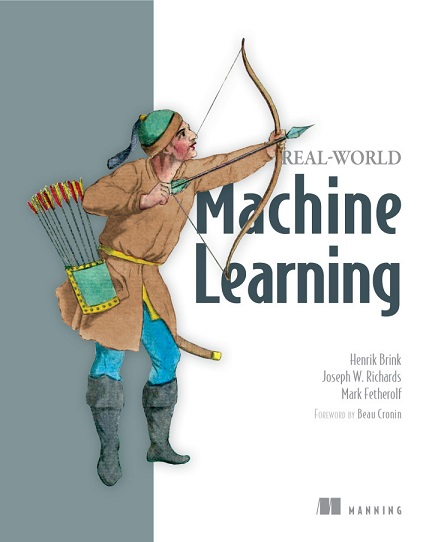
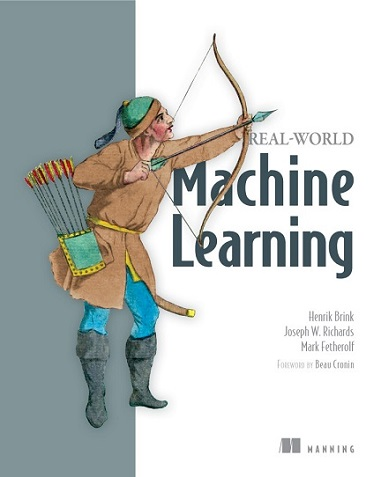
Daily Dose for 2017.10.16

Changed region(s): [[0.2021, 0.4696, 0.231, 0.499], [0.0866, 0.3522, 0.1155, 0.3816]]

diff --git a/_layouts/blog.html b/_layouts/blog.html
@@ -2,8 +2,8 @@
 layout: base
 ---
 {% comment %}
-<h1 class="post-title"><a href="/daily/2017/10/15/" data-flip="title">Daily Dose for 2017.10.15</a></h1>
-<p>, <a href="/daily/2017/10/15/">and more>>></a>.</p><br/>
+<h1 class="post-title"><a href="/daily/2017/10/16/" data-flip="title">Daily Dose for 2017.10.16</a></h1>
+<p>, <a href="/daily/2017/10/16/">and more>>></a>.</p><br/>
 {% endcomment %}
 
 <ul>
@@ -12,6 +12,15 @@ layout: base
   <li><strong>Books/Videos:</strong>&nbsp;New book announcements or full book/video reviews.</li>
 </ul>
 
+<h1 class="post-title"><a href="/daily/2017/10/16/" data-flip="title">Daily Dose for 2017.10.16</a></h1>
+<div class="image-box"><a href="{{site.url}}/daily/2017/10/16/#packt-daily"><img class="resize" alt="Xamarin Blueprints" src="/assets/img/learning/packt/xamarin-blueprints.jpg"/></a></div>
+<div class="image-box"><a href="{{site.url}}/daily/2017/10/16/#apress-daily"><img class="resize" alt="Pivotal Certified Professional Spring Developer Exam" src="/assets/img/learning/apress/pivotal-certified-professional-spring-developer-exam.png"/></a></div>
+<div class="image-box"><a href="{{site.url}}/daily/2017/10/16/#manning-daily-1"><img class="resize" alt="Natural Language Processing in Action" src="/assets/img/learning/manning/natural-language-processing-in-action.png"/></a></div>
+<div class="image-box"><a href="{{site.url}}/daily/2017/10/16/#manning-daily-2"><img class="resize" alt="Reactive Machine Learning Systems" src="/assets/img/learning/manning/reactive-machine-learning-systems.png"/></a></div>
+<div class="image-box"><a href="{{site.url}}/daily/2017/10/16/#manning-daily-3"><img class="resize" alt="Real-World Machine Learning" src="/assets/img/learning/manning/real-world-machine-learning.png"/></a></div>
+
+<p>Akka, Android Development, Bayesian Modeling, Big Data, Chatbot, Convolutional Neural Networks, Functional Programming, iOS Development, Java, Long Short-Term Memory Networks, Machine Learning, Microservices, MLlib, Mobile Development, Naive Bayes, Natural Language Processing, Neural Networks, Pivotal Certified Professional, Python, Reactive Design, Recurrent Neural Networks, Scala, Spark, Spring Framework, TF-IDF, Word2vec, Xamarin, <a href="/daily/2017/10/16/">and more>>></a>.</p><br/>
+
 <h1 class="post-title"><a href="/daily/2017/10/15/" data-flip="title">Daily Dose for 2017.10.15</a></h1>
 <div class="image-box"><a href="{{site.url}}/daily/2017/10/15/#packt-daily"><img class="resize" alt="Smart Internet of Things Projects" src="/assets/img/learning/packt/smart-internet-of-things-projects.jpg"/></a></div>
 <div class="image-box"><a href="{{site.url}}/daily/2017/10/15/#apress-daily"><img class="resize" alt="Deploying Raspberry Pi in the Classroom" src="/assets/img/learning/apress/deploying-raspberry-pi-in-the-classroom.png"/></a></div>
@@ -19,7 +28,6 @@ layout: base
 <div class="image-box"><a href="{{site.url}}/daily/2017/10/15/#manning-daily-1"><img class="resize" alt="Streaming Data" src="/assets/img/learning/manning/streaming-data-final.png"/></a></div>
 <div class="image-box"><a href="{{site.url}}/daily/2017/10/15/#manning-daily-2"><img class="resize" alt="Spark in Action" src="/assets/img/learning/manning/spark-in-action.png"/></a></div>
 <div class="image-box"><a href="{{site.url}}/daily/2017/10/15/#manning-daily-3"><img class="resize" alt="Storm Applied" src="/assets/img/learning/manning/storm-applied.png"/></a></div>
-
 <p>Apache Flink, Apache Kafka, Apache Samza, Apache Spark 2.0, Apache Storm, Arduino, Bayesian, Big Data, Caret, dplyr, Fuzzy Logic, ggplot2, Internet of Things, knitr, LaTeX, Microsoft Azure IoT, OpenCV, purrr, Python, R 3.4.0, Raspberry Pi, RMarkdown, RStudio, Shiny, Streaming Data, Tidyverse, Trident, <a href="/daily/2017/10/15/">and more>>></a>.</p><br/>
 
 <h1 class="post-title"><a href="/daily/2017/10/14/" data-flip="title">Daily Dose for 2017.10.14</a></h1>
@@ -39,12 +47,6 @@ layout: base
 <p>Angular 2, ES2015, Express, Express 4, Express 5 Alpha, MEAN, MongoDB, MongoDB 3, Mongoose, Node, Node.js 6, Pug, Raspberry Pi, REST API, <a href="/daily/2017/10/13/">and more>>></a>.</p><br/>
 
 <h1 class="post-title"><a href="/daily/2017/10/12/" data-flip="title">Daily Dose for 2017.10.12</a></h1>
-<div class="image-box"><a href="{{site.url}}/daily/2017/10/12/#packt-daily"><img class="resize" alt="Learning Penetration Testing with Python" src="/assets/img/learning/packt/learning-penetration-testing-with-python.png"/></a></div>
-<div class="image-box"><a href="{{site.url}}/daily/2017/10/12/#apress-daily"><img class="resize" alt="Rapid Game Development Using Cocos2d-JS" src="/assets/img/learning/apress/rapid-game-development-using-cocos2d-js.png"/></a></div>
-<div class="image-box"><a href="{{site.url}}/daily/2017/10/12/#manning-daily-1"><img class="resize" alt="Progressive Web Apps" src="/assets/img/learning/manning/progressive-web-apps-meap.png"/></a></div>
-<div class="image-box"><a href="{{site.url}}/daily/2017/10/12/#manning-daily-2"><img class="resize" alt="Web Performance in Action" src="/assets/img/learning/manning/web-performance-in-action-final.png"/></a></div>
-<div class="image-box"><a href="{{site.url}}/daily/2017/10/12/#manning-daily-3"><img class="resize" alt="Front-End Tooling with Gulp, Bower, and Yeoman" src="/assets/img/learning/manning/front-end-tooling-with-gulp-bower-and-yeoman-med.png"/></a></div>
-<div class="image-box"><a href="{{site.url}}/daily/2017/10/12/#pluralfree"><img class="resize" alt="Android Fundamentals: Content Providers" src="/assets/img/learning/pluralsight/android-fundamentals-content-providers.png"/></a></div>
 <p>Android, Bower, Burp Suite, Chipmunk, Cocos2d-JS, ContentProvider, CSS, Game Development, Gulp, HTTP/2, JavaScript, Metasploit, Nmap, Node.js, Penetration Testing, Progressive Web Apps, Python, Scapy, SQLite, Web Performance, Yeoman, <a href="/daily/2017/10/12/">and more>>></a>.</p><br/>
 
 <h1 class="post-title"><a href="/daily/2017/10/11/" data-flip="title">Daily Dose for 2017.10.11</a></h1>

diff --git a/_layouts/list.html b/_layouts/list.html
@@ -2,8 +2,8 @@
 layout: base
 
 daily_dose: 
-    day: 15 Oct
-    path: /daily/2017/10/15/
+    day: 16 Oct
+    path: /daily/2017/10/16/
 
 ---
 

diff --git a/daily/2017/10/16/index.md b/daily/2017/10/16/index.md
@@ -1,0 +1,190 @@
+---
+layout: daily
+title:  'Daily Dose for 2017.10.16'
+date:   2017-10-16 00:00:00 -0400
+excerpt_separator: <!--more-->
+comments: true
+navigation: '<< [Daily Dose for 2017.10.15](/daily/2017/10/15/) &#124; [Oct 2017](/daily/2017/10/) &#124; [2017](/daily/2017/) &#124; Daily Dose for 2017.10.17 >>'
+published: true
+---
+{% comment %}
+* [Select New Books and Courses](#select)
+* [New/Updated Pluralsight Courses](#pluralsight-new)
+{% endcomment %}
+
+<div class="image-box"><a href="{{site.url}}/daily/2017/10/16/#packt-daily"><img class="resize" alt="Xamarin Blueprints" src="/assets/img/learning/packt/xamarin-blueprints.jpg"/></a></div>
+<div class="image-box"><a href="{{site.url}}/daily/2017/10/16/#apress-daily"><img class="resize" alt="Pivotal Certified Professional Spring Developer Exam" src="/assets/img/learning/apress/pivotal-certified-professional-spring-developer-exam.png"/></a></div>
+<div class="image-box"><a href="{{site.url}}/daily/2017/10/16/#manning-daily-1"><img class="resize" alt="Natural Language Processing in Action" src="/assets/img/learning/manning/natural-language-processing-in-action.png"/></a></div>
+<div class="image-box"><a href="{{site.url}}/daily/2017/10/16/#manning-daily-2"><img class="resize" alt="Reactive Machine Learning Systems" src="/assets/img/learning/manning/reactive-machine-learning-systems.png"/></a></div>
+<div class="image-box"><a href="{{site.url}}/daily/2017/10/16/#manning-daily-3"><img class="resize" alt="Real-World Machine Learning" src="/assets/img/learning/manning/real-world-machine-learning.png"/></a></div>
+
+## Sections
+* [Books/Videos on Sale (or Free) Today](#sale)
+* [New/Updated Safari Books and Courses](#safari-new)
+
+## <a name="sale"></a>Books/Videos on Sale (or Free) Today ##
+These deals are good for today only, so be sure to take advantage of the pricing before the offers expire.
+
+### <a name="packt-daily"></a><small>Free</small> [Xamarin Blueprints](https://www.packtpub.com/packt/offers/free-learning) 
+[![Xamarin Blueprints](/assets/img/learning/packt/xamarin-blueprints.jpg)](https://www.packtpub.com/packt/offers/free-learning)
+[Free Packt eBook](https://www.packtpub.com/packt/offers/free-learning) by Michael Williams (valid through 10/16 at 19:00 EST). This book covers Xamarin, Mobile Development, iOS Development, Android Development.
+
+#### Publisher's Description
+Do you want to create powerful, efficient, and independent apps from scratch that will leverage the Xamarin framework and code with C#? Well, look no further; you've come to the right place!
+
+This is a learn-as-you-build practical guide to building eight full-fledged applications using Xamarin.Forms, Xamarin Android, and Xamarin iOS.
+
+Each chapter includes a project, takes you through the process of building applications (such as a gallery Application, a text-to-speech service app, a GPS locator app, and a stock market app), and will show you how to deploy the application's source code to a Google Cloud Source Repository. Other practical projects include a chat and a media-editing app, as well as other examples fit to adorn any developer's utility belt.
+
+In the course of building applications, this book will teach you how to design and prototype professional-grade applications implementing performance and security considerations.
+
+#### What You Will Learn
+* Discover eight different ways to create your own Xamarin applications
+* Improve app performance by using SQLite for data-intensive applications
+* Set up a simple web service to feed JSON data into mobile applications
+* Store files locally with Xamarin.Forms using dependency services
+* Use Xamarin extension libraries to create effective applications with less coding
+
+#### About the Author
+**Michael Williams** is an Insightful, results-driven full stack developer with notable experience in cross-platform development using Xamarin and native languages for multiple platforms. He also builds and researches server-side architecture using CQRS and event-sourcing. 
+
+Also an entrepreneur, the owner of Flush Arcade, a company involved in developing creative, innovative, and ideative games ([flusharcade.com.au](http://flusharcade.com.au/)).
+
+### <a name="apress-daily"></a><small>$9.99</small> [Pivotal Certified Professional Spring Developer Exam](http://www.anrdoezrs.net/links/8423497/type/dlg/http://www.apress.com/us/book/9781484208120)
+[![Pivotal Certified Professional Spring Developer Exam](/assets/img/learning/apress/pivotal-certified-professional-spring-developer-exam.png)](http://www.anrdoezrs.net/links/8423497/type/dlg/http://www.apress.com/us/book/9781484208120)
+[$9.99 Apress eBook](http://www.anrdoezrs.net/links/8423497/type/dlg/http://www.apress.com/us/book/9781484208120) by Iuliana Cosmina. This book covers Pivotal Certified Professional, Spring Framework.
+
+#### Publisher's Description
+Will help you master the core principles of the popular Spring Framework
+Will help you prepare for the Pivotal Certified Professional exam
+Includes mock tests at the end of each chapter, with answers included in an appendix
+
+Pass the Pivotal Certified Professional exam using source code examples, study summaries, and mock exams. In this book, you'll find a descriptive overview of certification-related Spring modules and a single example application demonstrating the use of all required Spring modules. Also, it is suitable as an introductory primer for Spring newcomers.
+
+Furthermore, in Pivotal Certified Professional Spring Developer Exam: A Study Guide each chapter contains a brief study summary and question set, and the book’s free downloadable source code package includes one mock exam (50 questions – like a real exam). After using this study guide, you will be ready to take and pass the Pivotal Certified Professional exam.
+
+When you become Pivotal Certified, you will have one of the most valuable credentials in Java. The demand for Spring skills is skyrocketing. Pivotal certification helps you advance your skills and your career, and get the maximum benefit from Spring. Passing the exam demonstrates your understanding of Spring and validates your familiarity with: container-basics, aspect oriented programming (AOP), data access and transactions, Spring Security, Spring Boot, microservices and the Spring model-view-controller (MVC). Good luck!
+
+#### What You'll Learn
+* Understand the core principles of the popular Spring Framework
+* Use dependency injection
+* Work with aspects in Spring and do AOP (aspect oriented programming)
+* Control transactional behavior and work with SQL and NoSQL (MongoDB) databases
+* Create and secure web applications based on Spring MVC
+* Get to know the format of exam and type of questions in it
+* Create Spring microservices applications
+
+#### Who This Book Is For
+Spring developers who have taken the Pivotal Core Spring class are eligible to take the Pivotal Certified Professional exam. 
+
+#### About the Author
+**Iuliana Cosmina** is a software engineer and professional developer. She has been programming in Java for more than 10 years. She also taught Java at the Gheorge Asachi Technical University in Iasi, Romania. She has a Bachelor's degree in computer science and a Master's degree in distributed systems from the same university. 
+
+She discovered Spring in June 2012 and loved it so much she trained for and passed the exam to become a Certified Spring Professional in November 2012. She trained for and passed the exam to become a Certified Web Application Developer in May 2014.
+
+Her plan is to become a Spring Enterprise Integration Specialist in the near future.
+
+She has contributed to the development of different types of enterprise applications such as search engines, ERPs, track and trace, and banking. During her career in outsourcing she has been a team leader, acting software architect and a DevOps professional. She likes to share her knowledge and expertise via tutoring, teaching, and mentoring. She lives in Sibiu, Romania and works as a software engineer for BearingPoint, a multinational management and technology consulting company.
+
+When she is not programming, she spends her time reading, travelling, hiking, or biking.
+
+### <a name="manning-daily-1"></a><small>50% off</small> [Natural Language Processing in Action](https://www.manning.com/dotd) 
+[![Natural Language Processing in Action](/assets/img/learning/manning/natural-language-processing-in-action.png)](https://www.manning.com/dotd)
+[50% off Manning's eBook](https://www.manning.com/dotd) by Hobson Lane, Hannes Hapke, Cole Howard. This book covers Natural Language Processing, Machine Learning, Chatbot, Neural Networks, Word2vec, Convolutional Neural Networks, Recurrent Neural Networks, Long Short-Term Memory Networks.
+
+#### Publisher's Description
+Natural Language Processing in Action is your guide to creating machines that understand human language. You'll start with a mental model of how a computer learns to read and interpret language. Then, you'll discover how to train a NLP machine to recognize patterns and extract information from text. As you explore the carefully-chosen examples, you'll expand your machine's knowledge and apply it to a range of challenges, from building a search engine that can find documents based on their meaning rather than merely keywords, to training a chatbot that uses deep learning to answer questions and participate in a conversation.
+
+#### About the technology
+Most humans are pretty good at reading and interpreting text; computers...not so much. Natural Language Processing (NLP) is the discipline of teaching computers to read more like people, and you see examples of it in everything from chatbots to the speech-recognition software on your phone. Modern NLP techniques based on machine learning radically improve the ability of software to recognize patterns, use context to infer meaning, and accurately discern intent from poorly-structured text. NLP promises to help you improve customer interactions, save cost, and reinvent text-intensive applications like search or product support.
+
+#### What's inside
+* Parsing and normalizing text
+* Rule-based (Grammar) NLP
+* Data-based (Machine Learning) NLP
+* Deep Learning NLP
+* End-to-end chatbot pipeline with training data
+* Scalable NLP pipelines
+* Hyperparameter optimization algorithms
+
+#### About the reader
+A basic understanding of machine learning and some experience with a modern programming language such as Python, Java, C++, or JavaScript will be helpful.
+
+#### About the authors
+**Hobson Lane** has more than 15 years of experience building autonomous systems that make important decisions on behalf of humans. 
+
+**Hannes Hapke** is an Electrical Engineer turned Data Scientist with experience in deep learning. 
+
+**Cole Howard** is a carpenter and writer turned Deep Learning expert.
+
+### <a name="manning-daily-2"></a><small>50% off</small> [Reactive Machine Learning Systems](https://www.manning.com/dotd) 
+[![Reactive Machine Learning Systems](/assets/img/learning/manning/reactive-machine-learning-systems.png)](https://www.manning.com/dotd)
+[50% off Manning's eBook](https://www.manning.com/dotd) by Jeff Smith. This book covers Machine Learning, Reactive Design, Scala, Spark, MLlib, Akka, Big Data, Functional Programming, Microservices, Bayesian Modeling, Naive Bayes.
+
+#### Publisher's Description
+Reactive Machine Learning Systems teaches you how to implement reactive design solutions in your machine learning systems to make them as reliable as a well-built web app. This example-rich guide starts with an overview of machine learning systems while focusing on where reactive design fits. Then you'll discover how to develop design patterns to implement and coordinate ML subsystems. Using Scala and powerful frameworks such as Spark, MLlib, and Akka, you'll learn to quickly and reliably move from a single machine to a massive cluster. Finally, you'll see how you can operate a large-scale machine learning system over time. By the end, you'll be employing the principles of reactive systems design to build machine learning applications that are responsive, resilient, and elastic.
+
+#### About the technology
+Machine learning applications autonomously reason about data at massive scale. It's important that they remain responsive in the face of failure and changes in load. And the best way to to keep applications responsive, resilient, and elastic is to incorporate reactive design. But machine learning systems are different than other applications when it comes to testing, building, deploying, and monitoring. They also have unique challenges when you need to change the semantics or architecture of the system. To make machine learning systems reactive, you need to understand both reactive design patterns and modern data architecture patterns.
+
+#### What's inside
+* Functional programming for distributed systems
+* Reactive techniques like futures, actors, and supervision
+* Spark and MLlib, and Akka
+* Scala-based examples
+* Predictive microservices
+* Data models for uncertain data
+* Design patterns for machine learning systems
+
+#### About the reader
+Readers should have intermediate skills in Java or Scala. No previous machine learning experience is required.
+
+#### About the author
+**Jeff Smith** builds large-scale machine learning systems using Scala and Spark. For the past decade, he has been working on data science applications at various startups in New York, San Francisco, and Hong Kong. He blogs and speaks about various aspects of building real world machine learning systems.
+
+### <a name="manning-daily-3"></a><small>50% off</small> [Real-World Machine Learning](https://www.manning.com/dotd) 
+[![Real-World Machine Learning](/assets/img/learning/manning/real-world-machine-learning.png)](https://www.manning.com/dotd)
+[50% off Manning's eBook](https://www.manning.com/dotd) by Henrik Brink, Joseph W. Richards, Mark Fetherolf with foreword by Beau Cronin. This book covers Machine Learning, Big Data, Python, Natural Language Processing, Naive Bayes, TF-IDF, Word2vec.
+
+#### Publisher's Description
+Real-World Machine Learning is a practical guide designed to teach working developers the art of ML project execution. Without overdosing you on academic theory and complex mathematics, it introduces the day-to-day practice of machine learning, preparing you to successfully build and deploy powerful ML systems.
+
+#### About the technology
+Machine learning systems help you find valuable insights and patterns in data, which you'd never recognize with traditional methods. In the real world, ML techniques give you a way to identify trends, forecast behavior, and make fact-based recommendations. It's a hot and growing field, and up-to-speed ML developers are in demand.
+
+#### About the book
+Real-World Machine Learning will teach you the concepts and techniques you need to be a successful machine learning practitioner without overdosing you on abstract theory and complex mathematics. By working through immediately relevant examples in Python, you'll build skills in data acquisition and modeling, classification, and regression. You'll also explore the most important tasks like model validation, optimization, scalability, and real-time streaming. When you're done, you'll be ready to successfully build, deploy, and maintain your own powerful ML systems.
+
+#### What's inside
+* Predicting future behavior
+* Performance evaluation and optimization
+* Analyzing sentiment and making recommendations
+
+#### About the reader
+No prior machine learning experience assumed. Readers should know Python.
+
+#### About the authors
+**Henrik Brink**, **Joseph Richards** and **Mark Fetherolf** are experienced data scientists engaged in the daily practice of machine learning.
+
+## <a name="safari-new"></a>New/Updated Safari Books and Courses ## 
+
+### Association for Talent Development
+* [Everyday Coaching: Using Conversation to Strengthen Your Culture](http://www.anrdoezrs.net/links/8423497/type/dlg/https://www.safaribooksonline.com/library/view/everyday-coaching-using/9781562866877/) (Book) by Virginia Bianco-Mathis, Lisa Nabors
+
+### iCollege
+* [SalesForce: Power User Course](http://www.anrdoezrs.net/links/8423497/type/dlg/https://www.safaribooksonline.com/library/view/salesforce-power-user/100000006A0643/) (Video) by iCollege
+
+### Packt Publishing
+* [ASP.NET Core 2 High Performance - Second Edition](http://www.anrdoezrs.net/links/8423497/type/dlg/https://www.safaribooksonline.com/library/view/aspnet-core-2/9781788399760/) (Book) by James Singleton
+* [Building a Basic App Using Xamarin and Xamarin.Forms](http://www.anrdoezrs.net/links/8423497/type/dlg/https://www.safaribooksonline.com/library/view/building-a-basic/9781788476799/) (Video) by Steven F. Daniel
+* [Getting started with Shiny](http://www.anrdoezrs.net/links/8423497/type/dlg/https://www.safaribooksonline.com/library/view/getting-started-with/9781787124028/) (Video) by Chris Beeley
+* [Isomorphic JavaScript Web Development](http://www.anrdoezrs.net/links/8423497/type/dlg/https://www.safaribooksonline.com/library/view/isomorphic-javascript-web/9781785889769/) (Book) by Konstantin Tarkus, Tomas Alabes
+* [Mastering Linux Kernel Development](http://www.anrdoezrs.net/links/8423497/type/dlg/https://www.safaribooksonline.com/library/view/mastering-linux-kernel/9781785883057/) (Book) by Raghu Bharadwaj
+* [Microservices and Cloud-Native Applications with Spring 5.0](http://www.anrdoezrs.net/links/8423497/type/dlg/https://www.safaribooksonline.com/library/view/microservices-and-cloud-native/9781788831727/) (Video) by Ranga Rao Karanam
+
+
+{% comment %}
+## <a name="select"></a>Select New Books and Courses ##
+
+## <a name="pluralsight-new"></a>New/Updated Pluralsight Courses ## 
+{% endcomment %}

diff --git a/daily/_index_template.md b/daily/_index_template.md
@@ -1,10 +1,10 @@
 ---
 layout: daily
-title:  'Daily Dose for 2017.10.15'
-date:   2017-10-15 00:00:00 -0400
+title:  'Daily Dose for 2017.10.16'
+date:   2017-10-16 00:00:00 -0400
 excerpt_separator: <!--more-->
 comments: true
-navigation: '<< [Daily Dose for 2017.10.14](/daily/2017/10/14/) &#124; [Oct 2017](/daily/2017/10/) &#124; [2017](/daily/2017/) &#124; Daily Dose for 2017.10.16 >>'
+navigation: '<< [Daily Dose for 2017.10.15](/daily/2017/10/15/) &#124; [Oct 2017](/daily/2017/10/) &#124; [2017](/daily/2017/) &#124; Daily Dose for 2017.10.17 >>'
 published: false
 ---
 {% comment %}

diff --git a/daily/2017/10/15/index.md b/daily/2017/10/15/index.md
@@ -4,7 +4,7 @@ title:  'Daily Dose for 2017.10.15'
 date:   2017-10-15 00:00:00 -0400
 excerpt_separator: <!--more-->
 comments: true
-navigation: '<< [Daily Dose for 2017.10.14](/daily/2017/10/14/) &#124; [Oct 2017](/daily/2017/10/) &#124; [2017](/daily/2017/) &#124; Daily Dose for 2017.10.16 >>'
+navigation: '<< [Daily Dose for 2017.10.14](/daily/2017/10/14/) &#124; [Oct 2017](/daily/2017/10/) &#124; [2017](/daily/2017/) &#124; [Daily Dose for 2017.10.16](/daily/2017/10/16/) >>'
 published: true
 ---
 {% comment %}

diff --git a/daily/2017/10/index.md b/daily/2017/10/index.md
@@ -7,6 +7,8 @@ comments: true
 published: true
 navigation: '<< Daily Dose for [September 2017](/daily/2017/09/) &#124; [2017](/daily/2017/) &#124; Daily Dose for November 2017 >>'
 pubdays: 
+    - day: 2017.10.16
+      path: /daily/2017/10/16/
     - day: 2017.10.15
       path: /daily/2017/10/15/
     - day: 2017.10.14
